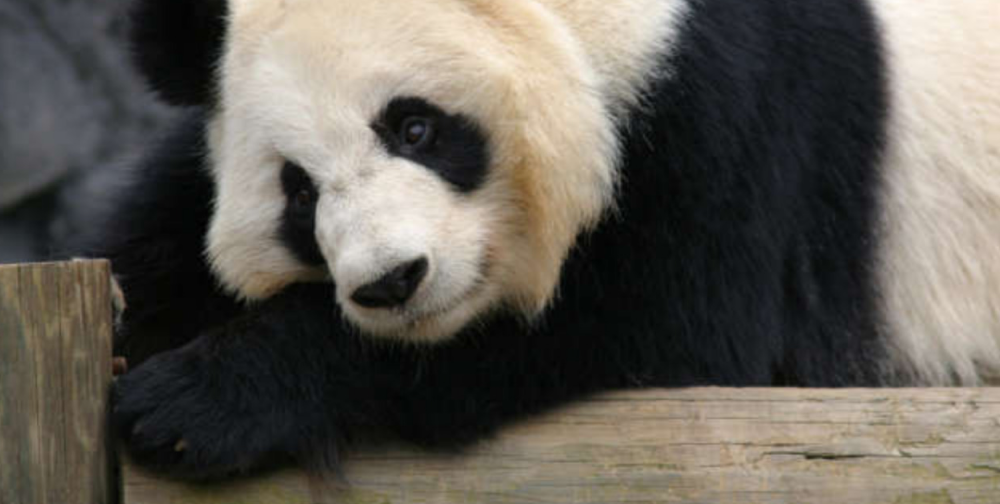
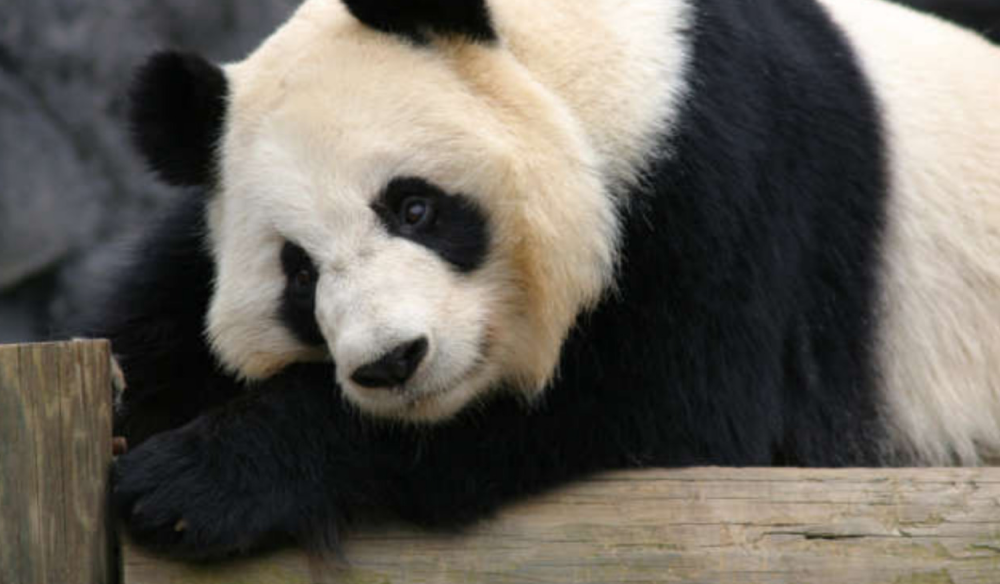
fix: fix fixed header for 1000px 	modified:   online-zoo/assets/css/style.css 	modified:   online-zoo/assets/images/Giant_Panda_sd.png 	new file:   online-zoo/assets/images/Giant_Panda_sd_cr.png 	modified:   online-zoo/assets/images/Giant_Panda_t.png 	new file:   online-zoo/assets/images/Giant_Panda

diff --git a/online-zoo/pages/main/adaptive.css b/online-zoo/pages/main/adaptive.css
@@ -1,7 +1,7 @@
 .preview {
     background: url(../../assets/images/Giant_Panda_sd.png) no-repeat center;
     background-size: cover;
-    height: 504px;
+    height: 584px;
 }
 .preview-circle {
     width: 367px;
@@ -131,15 +131,10 @@
 /*END OF 1440px ADAPDATION*/
 
 @media (max-width:980px) {
-    .header {
-        position: fixed;
-        width: 100%;
-        top: 0;
-    }
     .preview {
         background: url(../../assets/images/Giant_Panda_t.png) no-repeat center;
         background-size: cover;
-        height: 339px;
+        height: 373px;
     }
     .animals {
       overflow-x: hidden;

diff --git a/online-zoo/assets/css/style.css b/online-zoo/assets/css/style.css
@@ -294,6 +294,10 @@ li {
 
 @media (max-width:1440px) {
     /*HEADER*/
+    .header {
+        position: fixed;
+        width: 100%;
+    }
     .navbar {
         width: 94%;
     }
@@ -321,11 +325,6 @@ li {
 } /*end media 1440px*/
 
 @media (max-width:980px) {
-    .header {
-        position: fixed;
-        width: 100%;
-        top: 0;
-    }
     .pet-logo {
         border: none;
 
